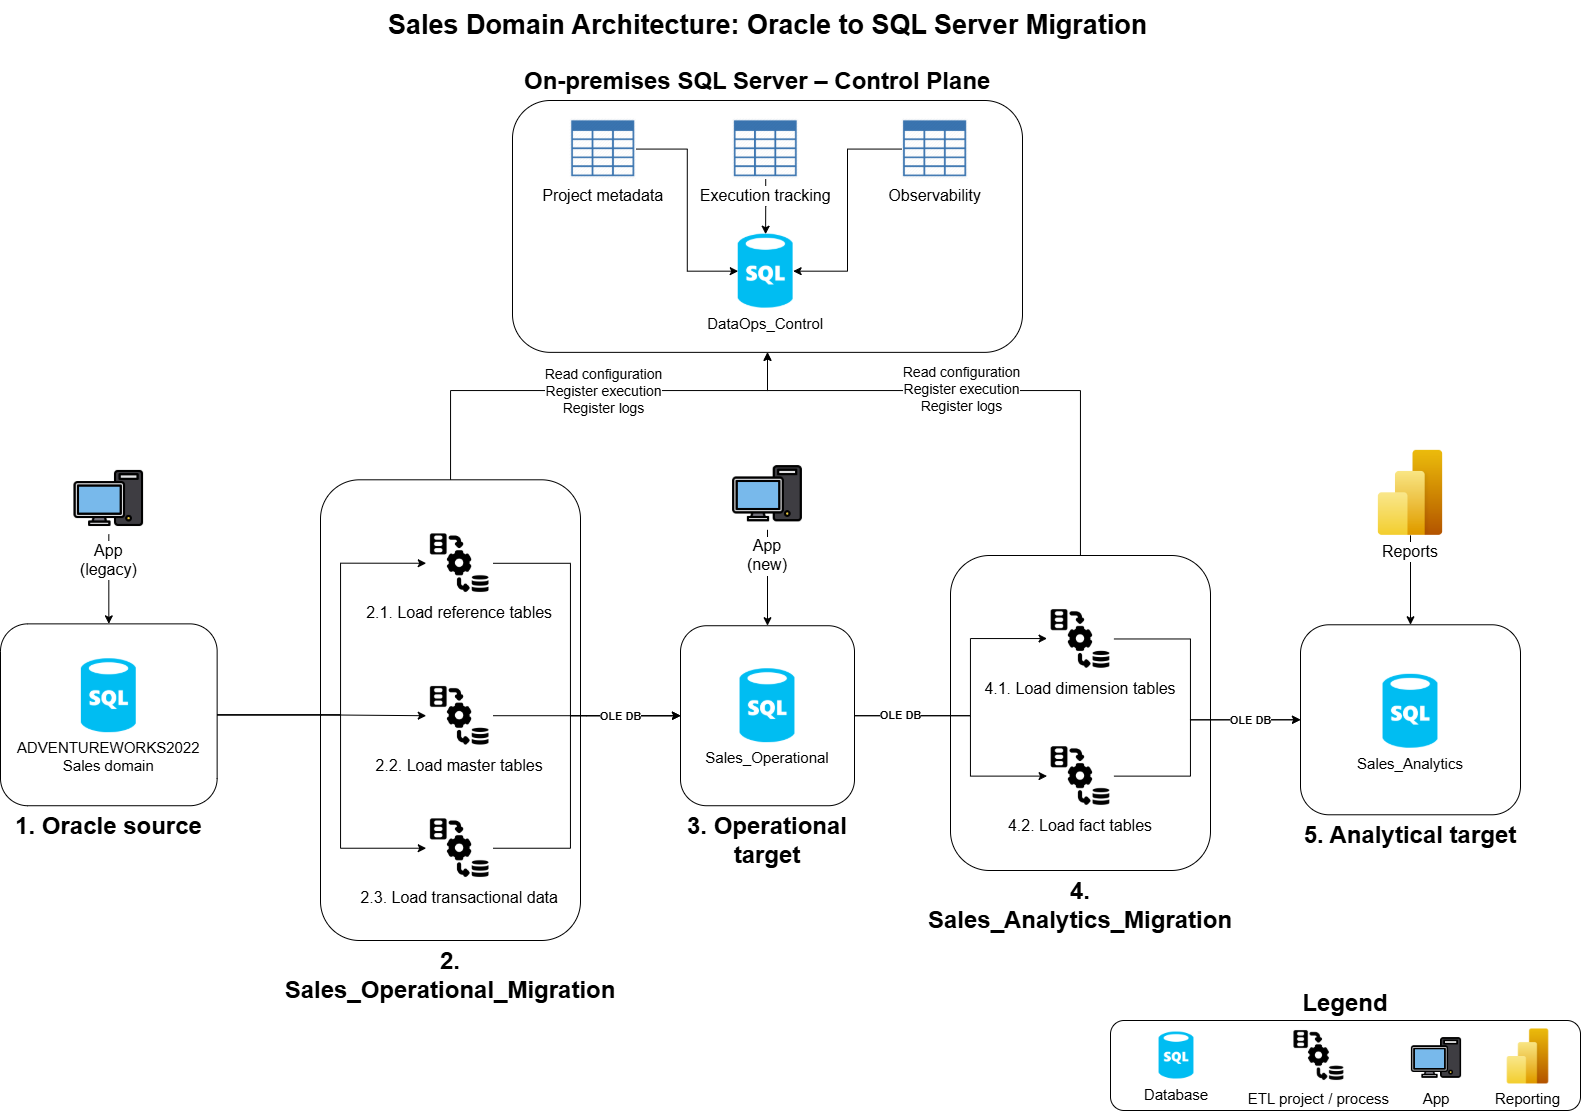
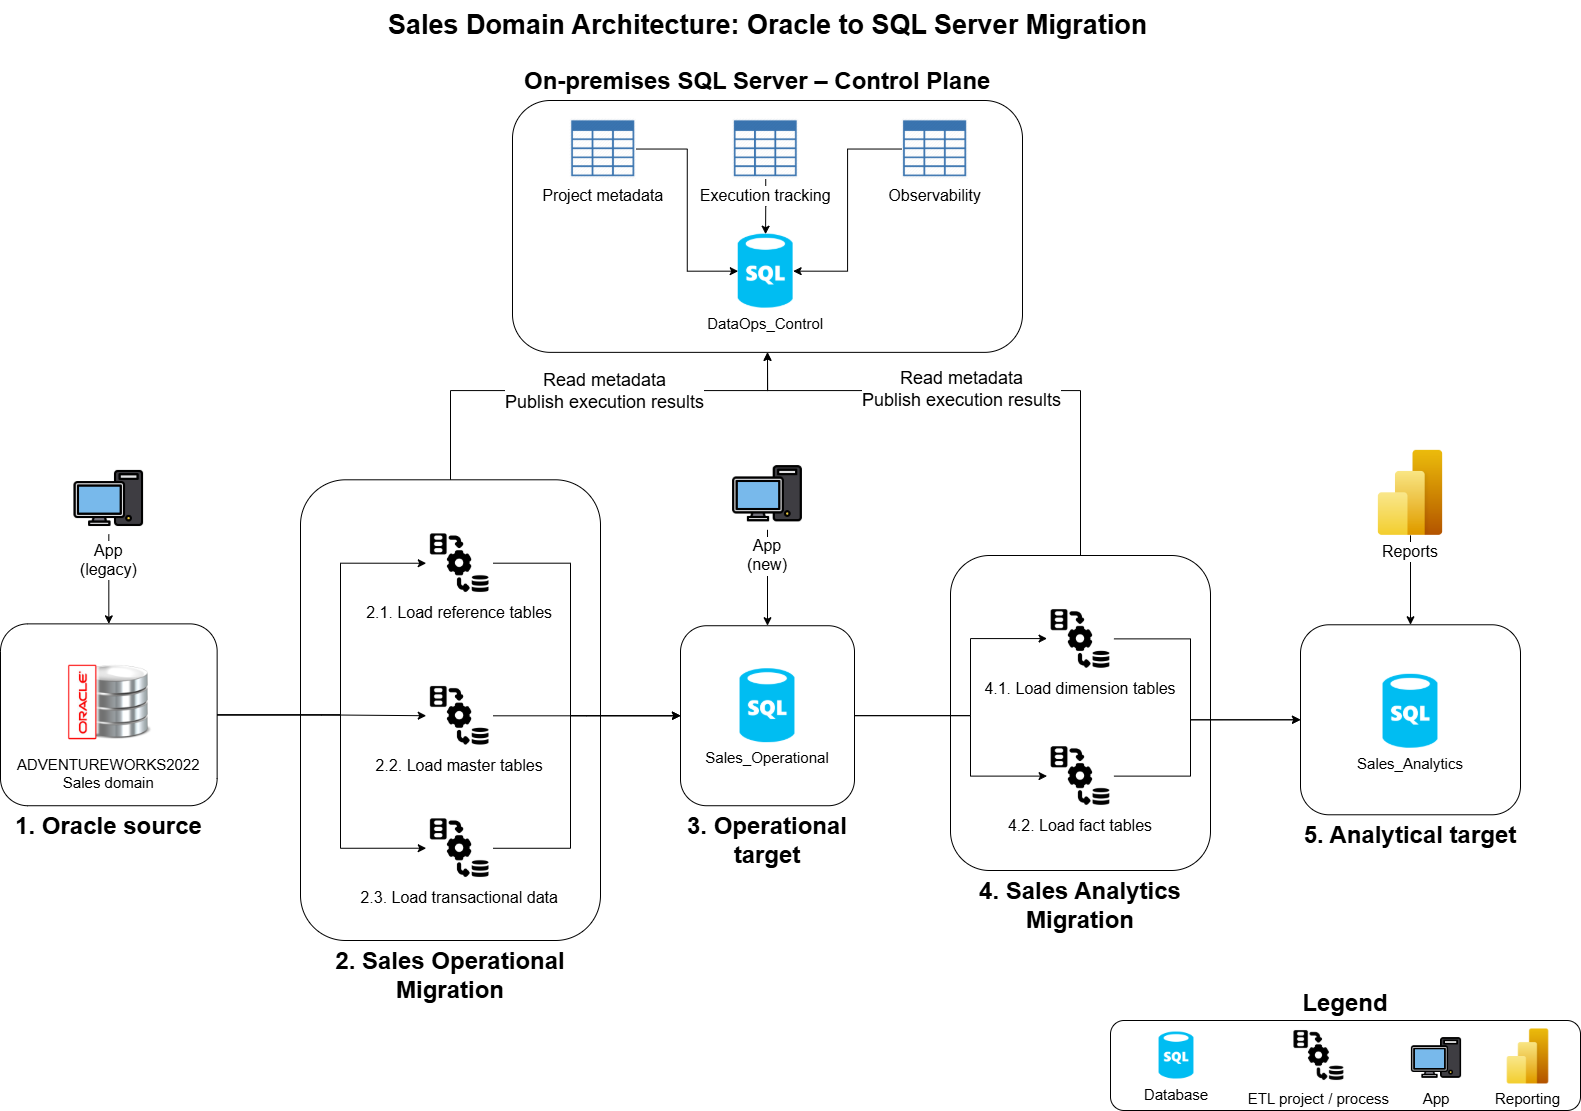
update README final v1

diff --git a/on_premise/oracle_mssql_migration/README.md b/on_premise/oracle_mssql_migration/README.md
@@ -4,7 +4,7 @@
 
 This project presents a migration and modernization case study for moving a legacy Sales data domain from Oracle to SQL Server 2022.
 
-The objective is to design and document a phased migration solution using professional data engineering practices, from problem framing and target architecture to implementation-oriented design decisions.
+The objective is to design and document a phased migration solution using professional data engineering practices, from problem framing and target architecture to implementation.
 
 This case study is intended to:
 
@@ -19,7 +19,7 @@ The scenario assumes that a company has operated for more than 10 years with a l
 
 Over time, the company has accumulated transactional, historical, and reference data in Oracle while also relying on database-side logic to support operational processing and reporting. As the business evolves, a **new web platform** is introduced to modernize operational processes and improve maintainability. As a result, business data must be migrated to a new database platform hosted on SQL Server 2022.
 
-The company has chosen to execute the migration in phases defined by business domain. For that reason, the first migration scope is focused on the **Sales domain**, including the supporting entities required for customer, product, territory, and related sales processing. This means the project does not attempt to migrate the full legacy platform at once, but instead focuses on one domain with clear business value and strong dependency on surrounding master data.
+The company has chosen to execute the migration in phases defined by business domain. For that reason, the first migration scope is focused on the **Sales domain**, including the supporting entities required for customer, product, territory, and related sales processing. This means the project does not attempt to migrate the full legacy platform at once, but focuses on one domain with clear business value and strong dependency.
 
 ## Architecture Overview
 
@@ -47,7 +47,7 @@ From a migration perspective, the source cannot be treated as a uniform dataset.
 
 ## Related Documentation
 
-For the technical design and decision rationale, see:
+For the technical design, see:
 - [Solution Design](docs/solution_design.md)
 
 ## Project Scope